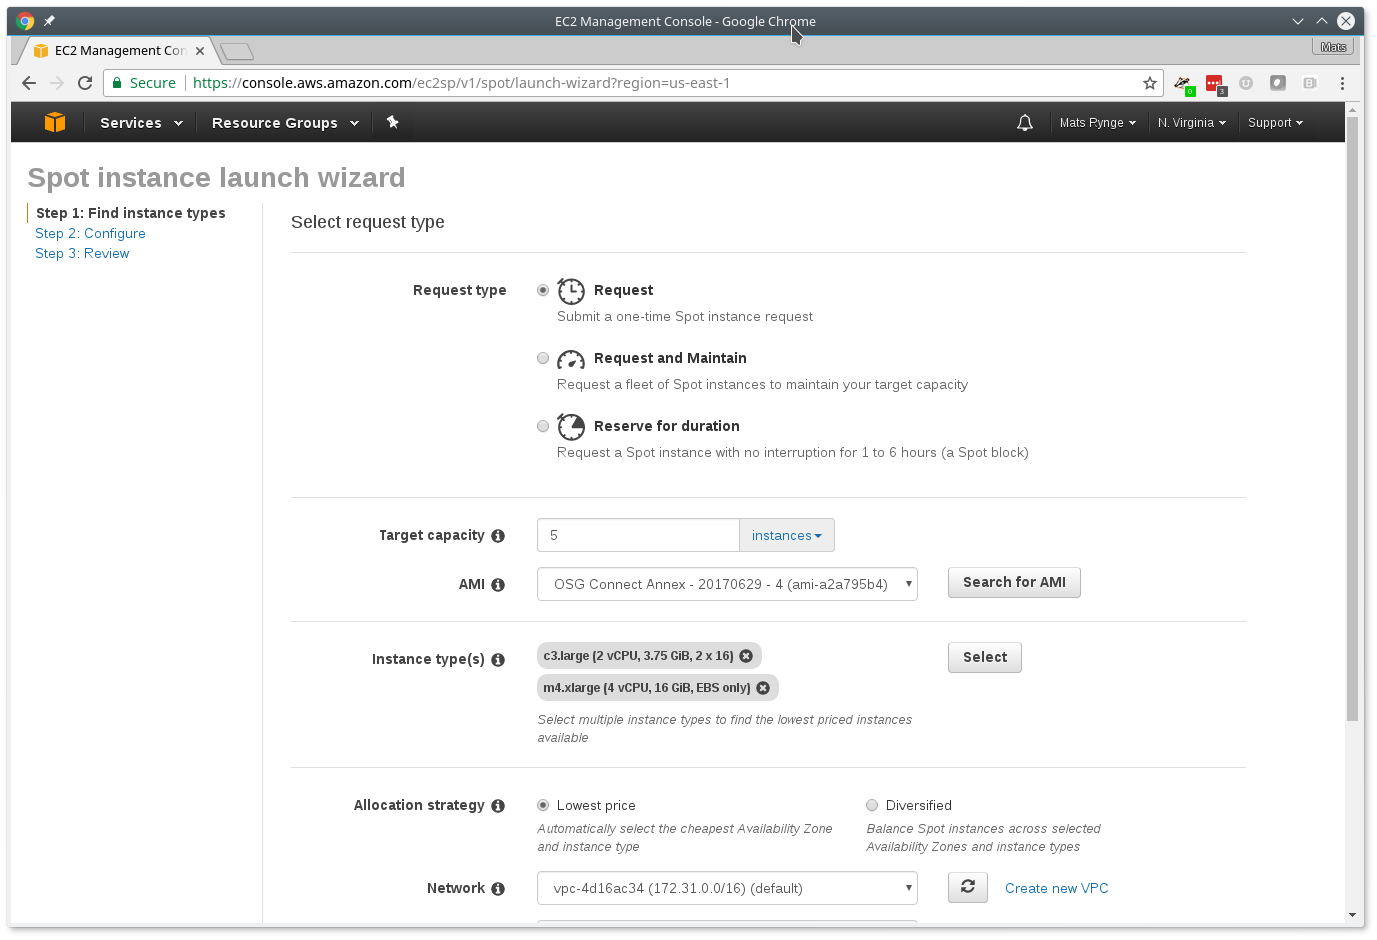
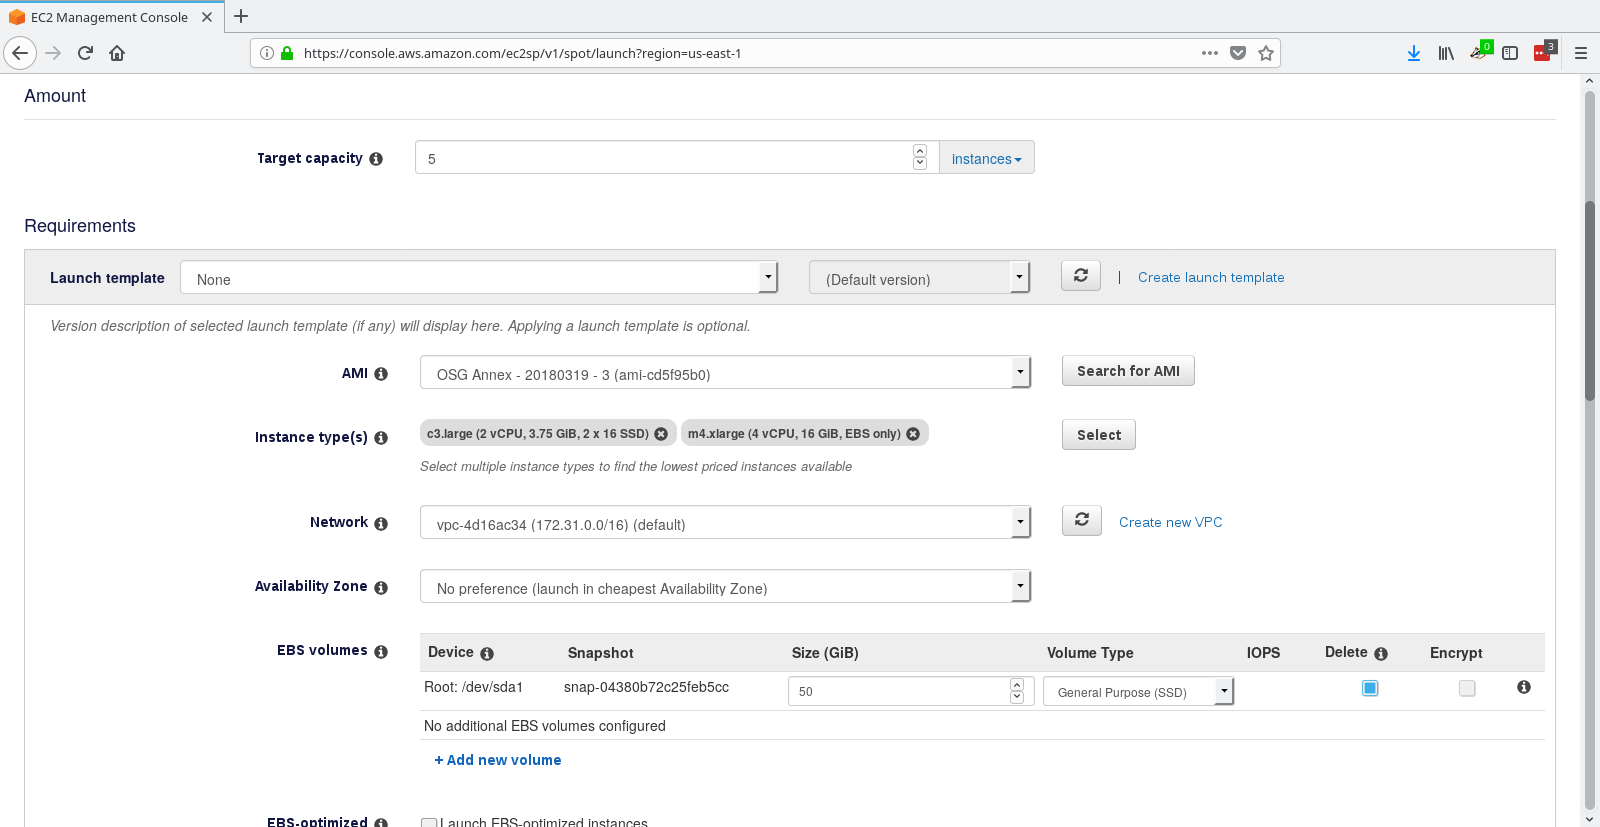
AWS updates

diff --git a/novice/DHTC/08-condor_annex.md b/novice/DHTC/08-condor_annex.md
@@ -91,7 +91,7 @@ You can verify at this point (or any later time) that the setup procedure comple
                     -annex-name MyFirstAnnex$USER \
                     -duration 0.83 \
                     -idle 0.25 \
-                    -aws-on-demand-ami-id ami-a2a795b4
+                    -aws-on-demand-ami-id ami-cd5f95b0
 
 This should start the process of bringing one VM up. *Duration*, which is the max lifetime of the VM, is set to 50 minutes. This lifetime is intended to help you conserve money by preventing the annex instances from accidentally running forever. *Idle* is set to 15 minutes, which is the amount of time the VM can sit without any jobs running before terminating.
 
@@ -225,7 +225,7 @@ Make sure you still have at least one annex host active, and then submit the `aw
 
 When we start submitting many simultaneous jobs into the queue, it might be worth looking at where they run. To get that information, we'll use the `condor_history` command from quickstart tutorial:
 
-	$ job_histogram
+	$ condor_history -format '%s\n' LastRemoteHost $USER | cut -d@ -f2 | cut -d. -f2,3 | distribution --height=101
 	Val          |Ct (Pct)     Histogram
 	ec2.internal |456 (46.77%) +++++++++++++++++++++++++++++++++++++++++++++++++++++
 	uchicago.edu |422 (43.28%) +++++++++++++++++++++++++++++++++++++++++++++++++
@@ -289,7 +289,7 @@ procedure.
 Go to [AWS Request Spot Instances](https://console.aws.amazon.com/ec2sp/v1/spot/home?region=us-east-1#)
 to get started. Click `Request Spot Instances`.
 
-Set target capacity to 5, and use `ami-a2a795b4` for the image.
+Set target capacity to 5, and use `ami-cd5f95b0` for the image.
 
 Select instance types: `c3.large` and `m4.xlarge`
 
@@ -299,7 +299,7 @@ Make sure you select the correct instance role in the dropdown.
 
 ![Spot2](Images/Spot2.png)
 
-Download the JSON file from the upper right corner. Do _not_ finish the guide.
+Download the JSON file from the lower right corner. Do _not_ finish the guide.
 
 ![Spot3](Images/Spot3.png)
 
